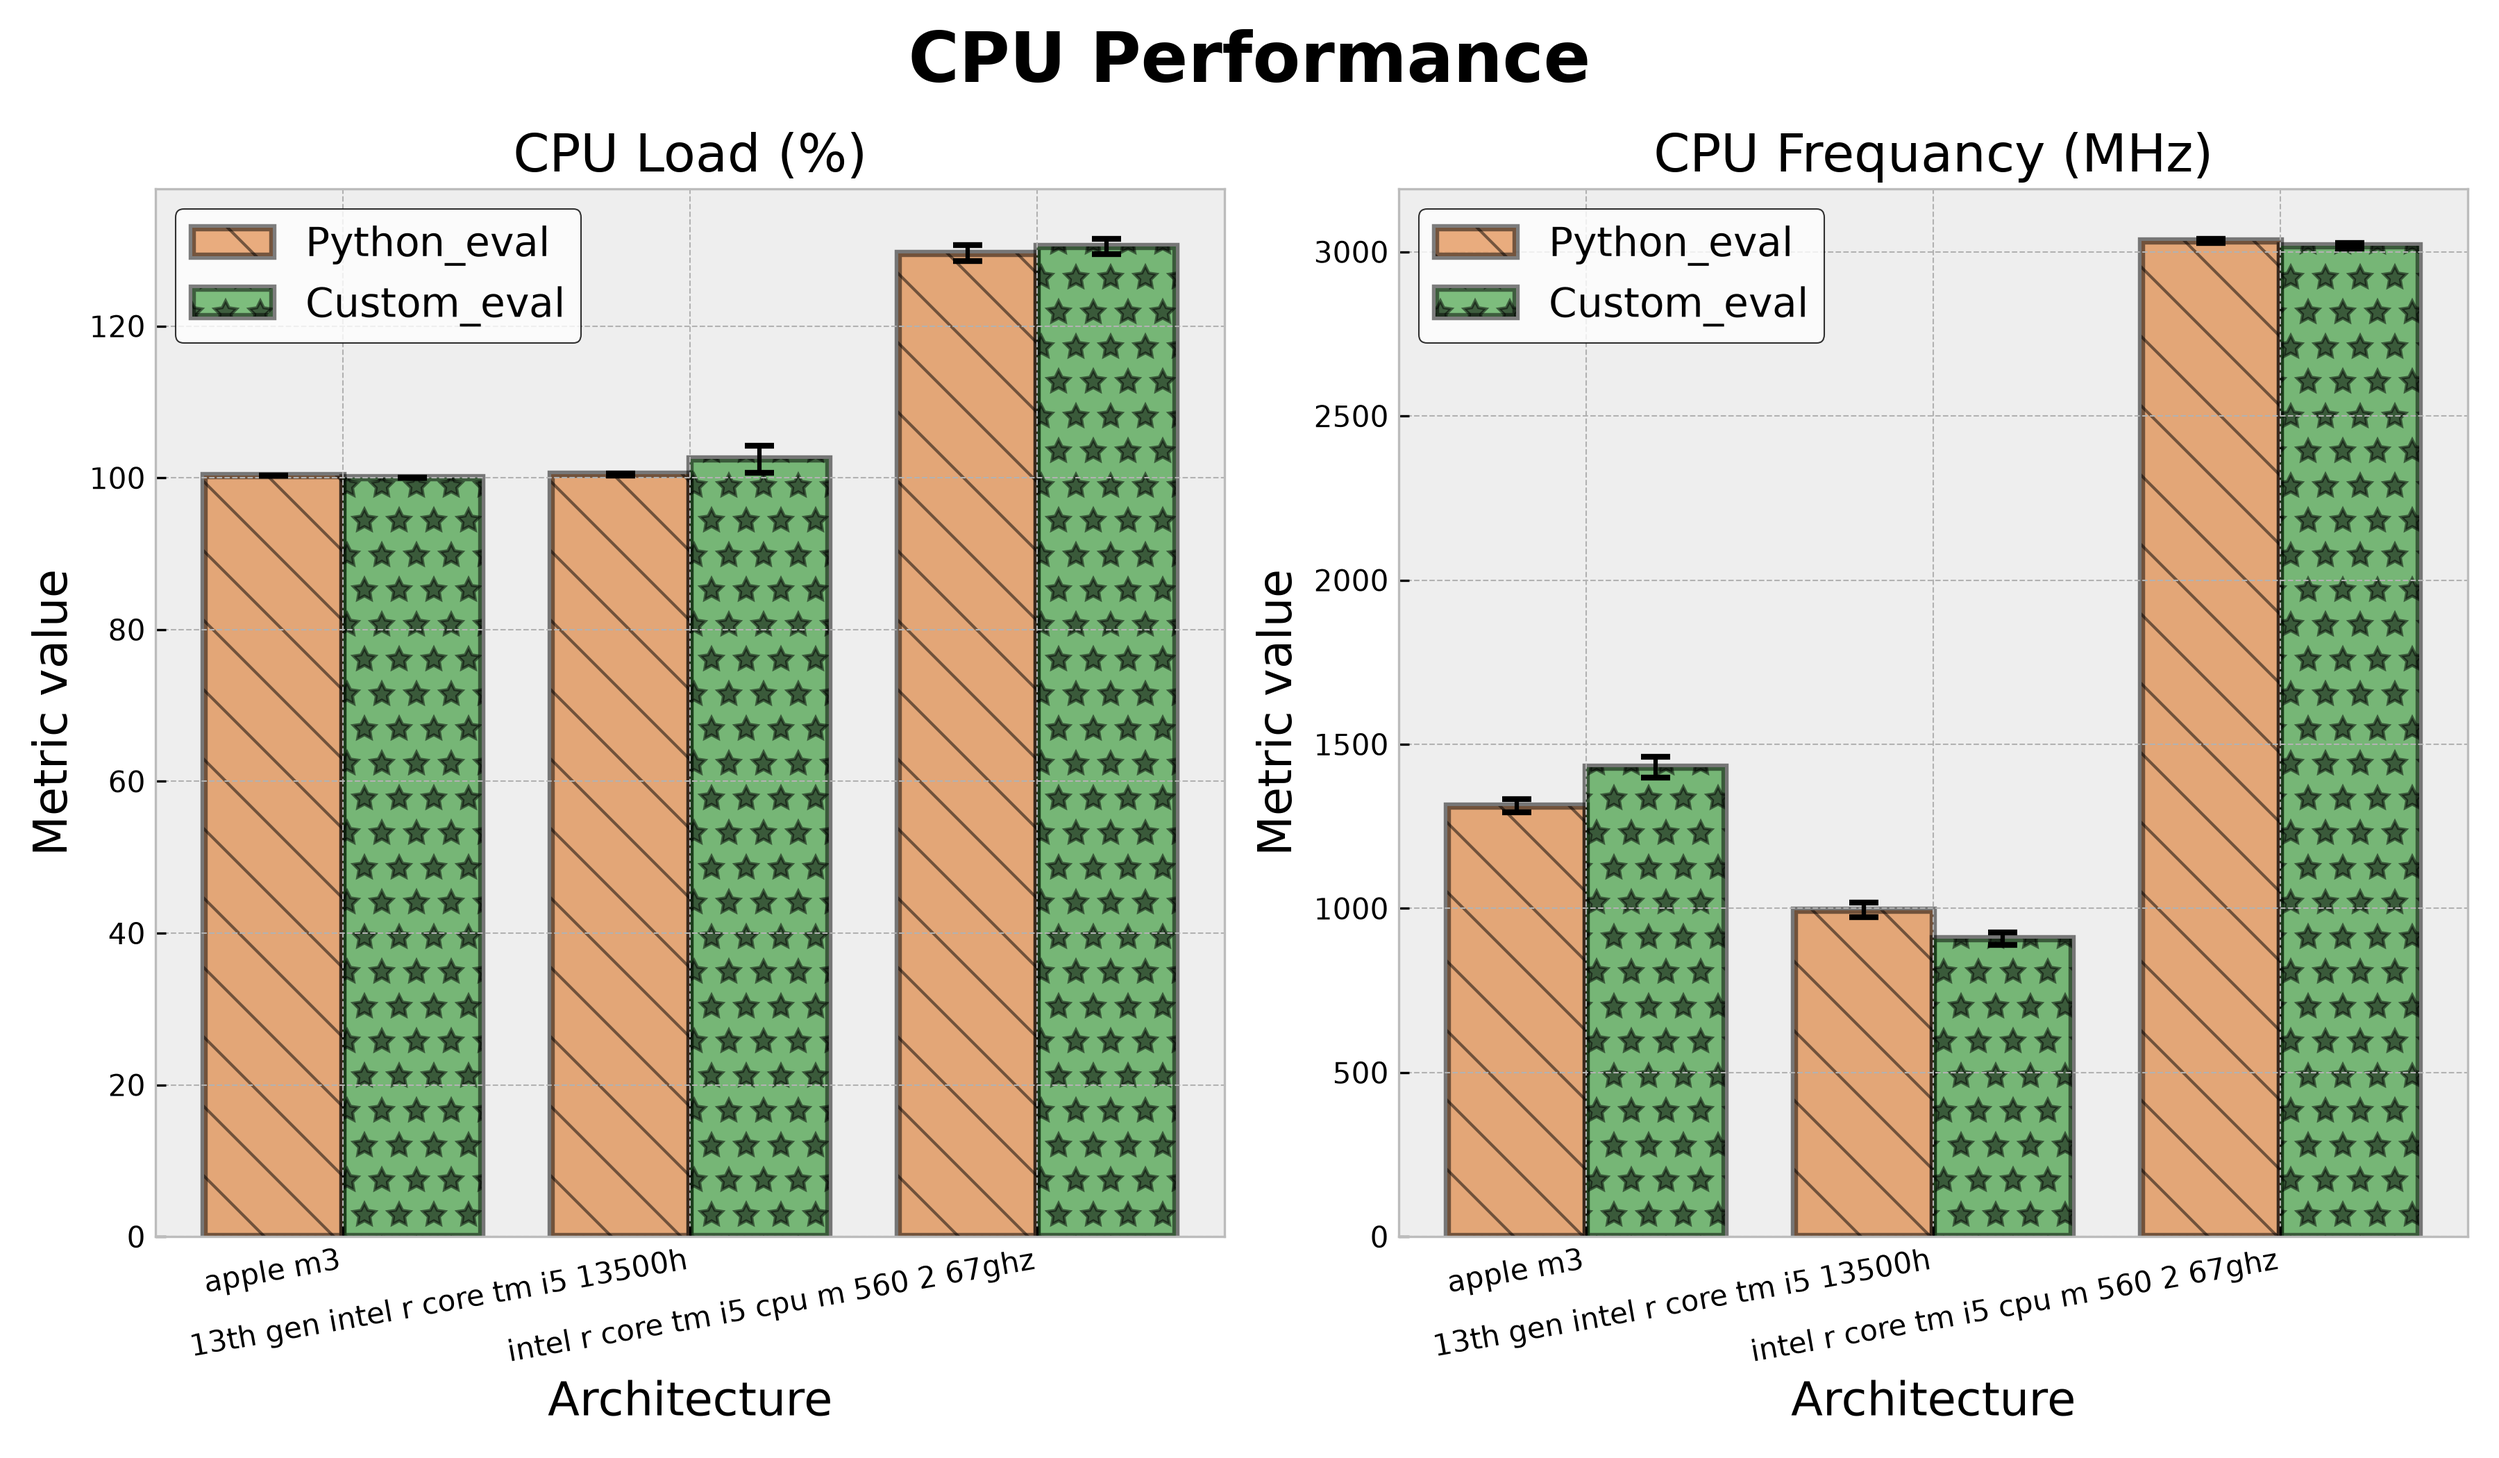
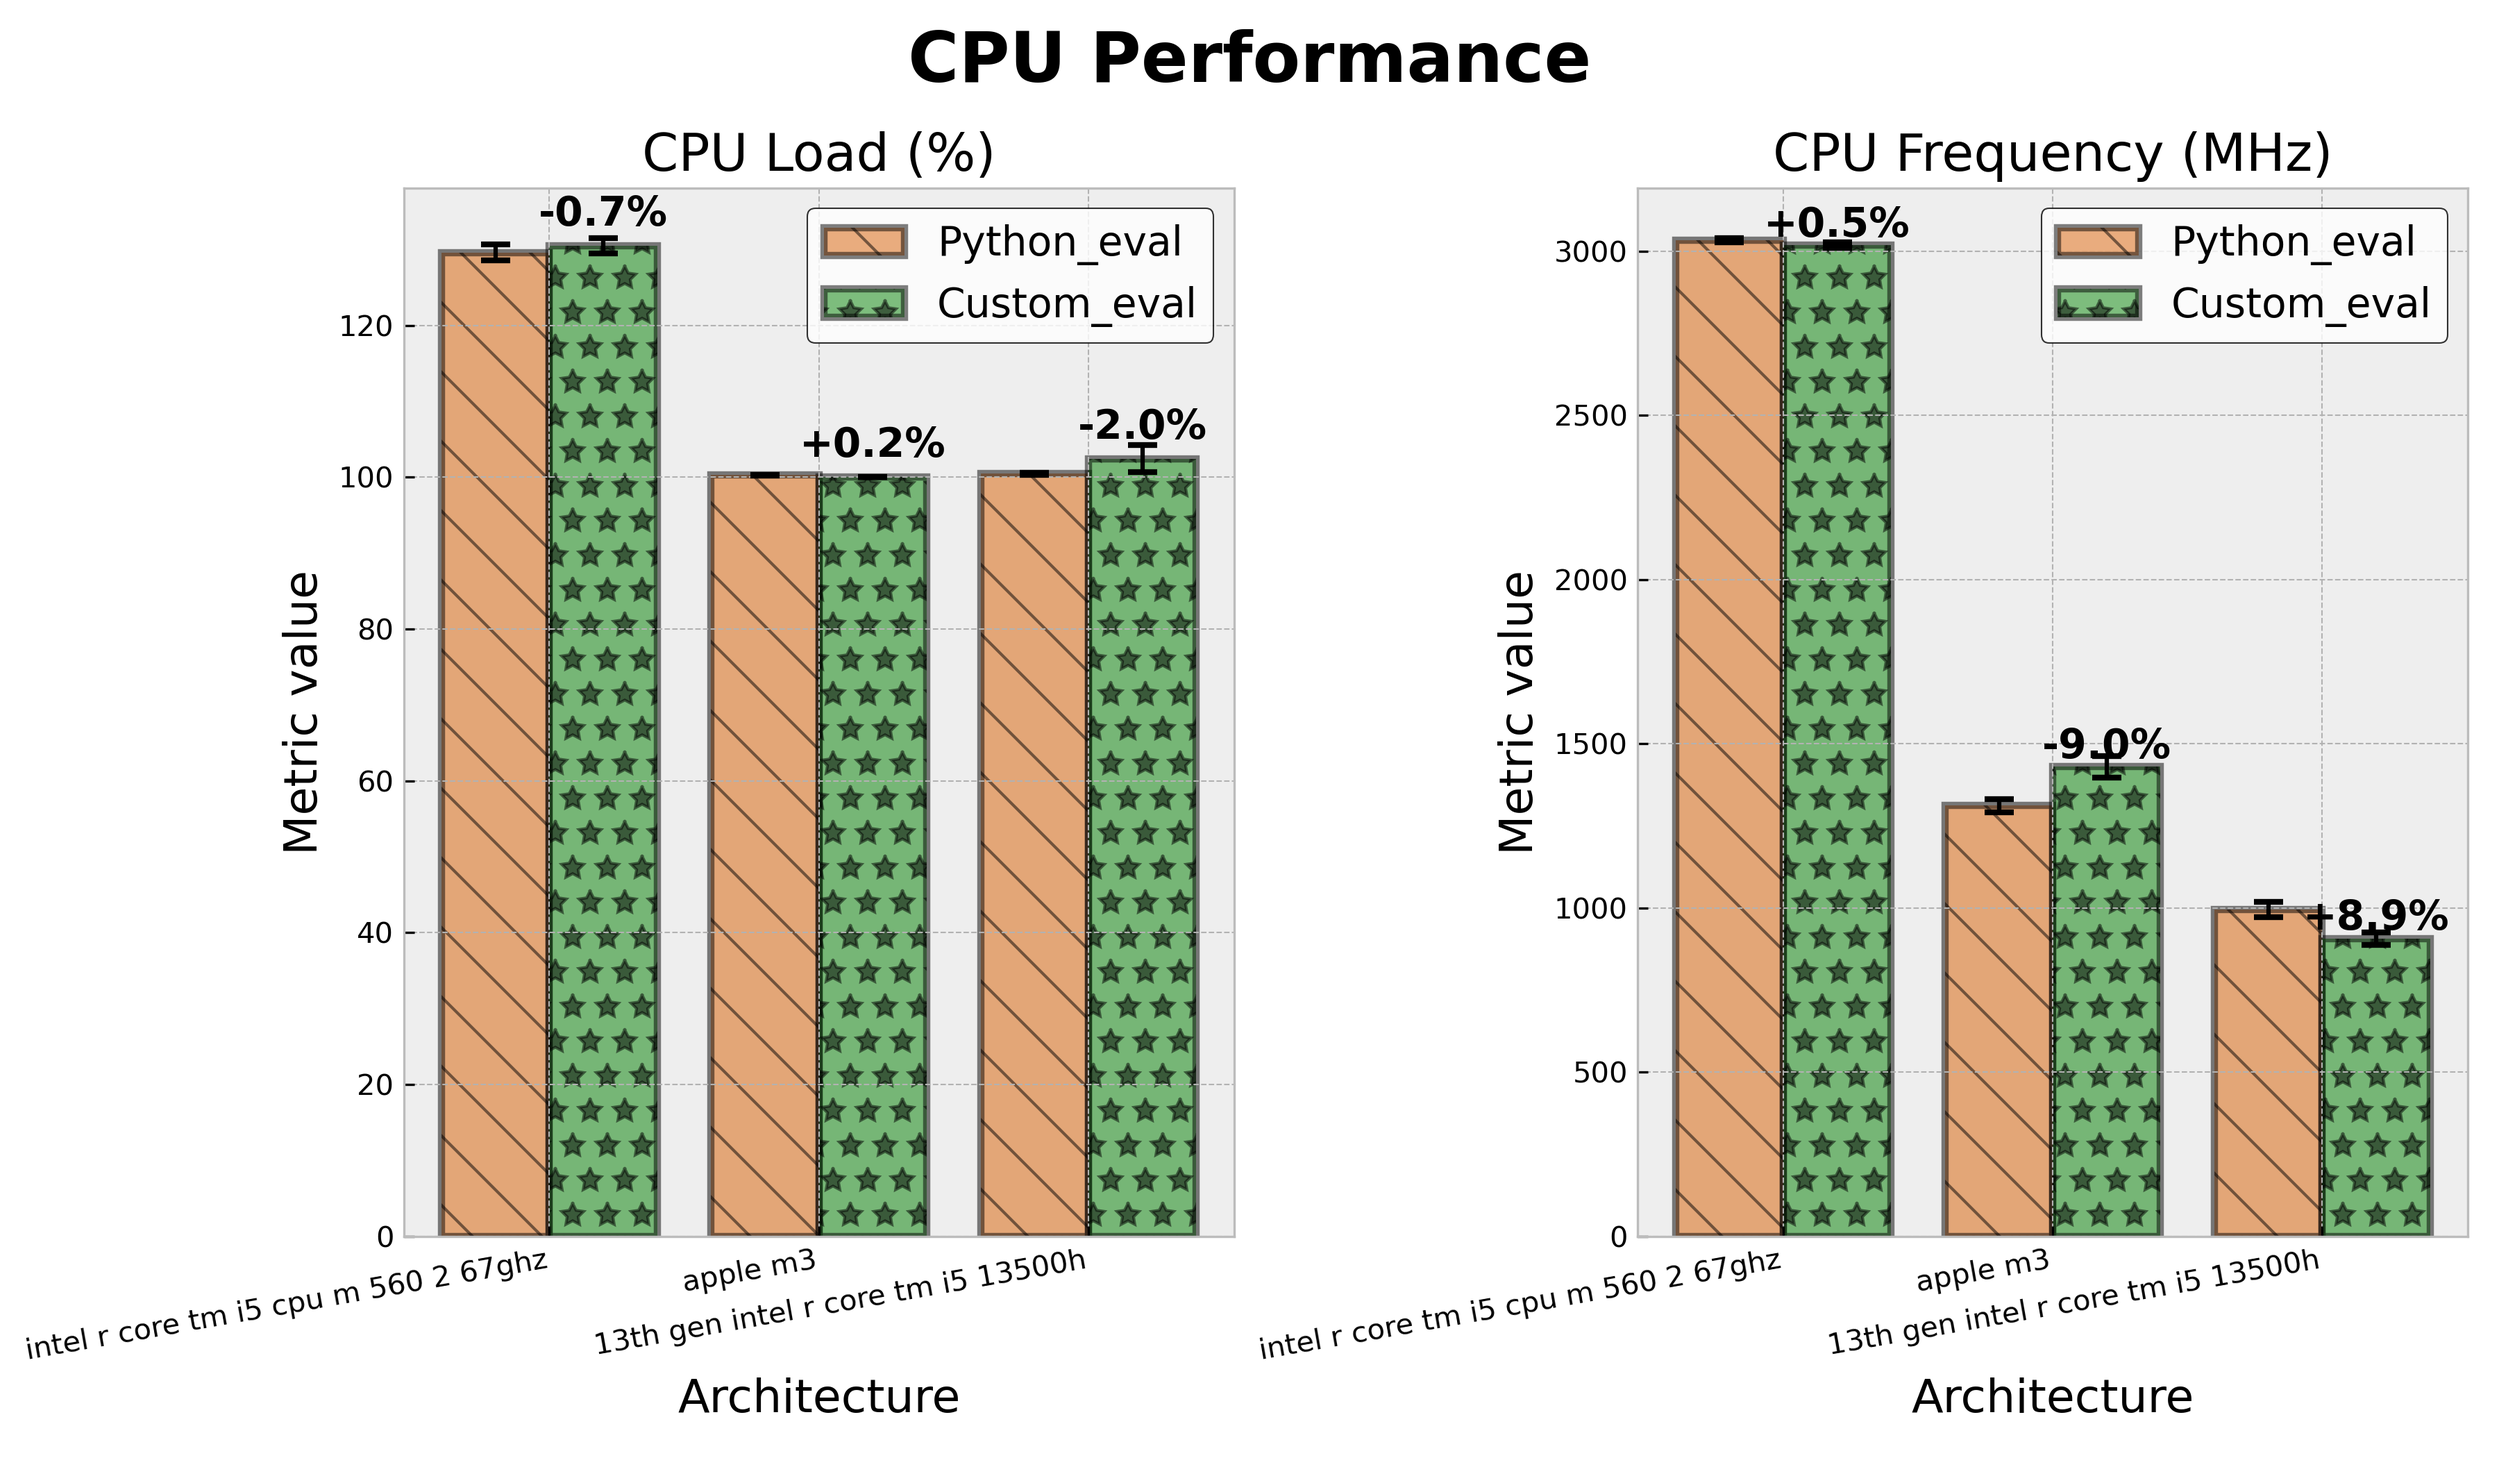
Results general analysis

diff --git a/modeling/general_analysis.py b/modeling/general_analysis.py
@@ -101,6 +101,7 @@ class PlotHistogram:
         x: NDArray = np.arange(len(self._list_dir))
         STEP: Final[int] = 2
         width: float = 0.40
+        height: float = 1.5
         counter: int = 0
 
         # Error style
@@ -116,10 +117,11 @@ class PlotHistogram:
             "CPU Thermal & Energy"
         )
         titles_hist: tuple[tuple[str, str], ...] = (
-            ("CPU Load (%)", "CPU Frequancy (MHz)"),
+            ("CPU Load (%)", "CPU Frequency (MHz)"),
             ("RSS (MB)", "Heap python (MB)"),
             ("Temperature (°C)", "Energy (J)")
         )
+        y_label_log: str = "Logarithmic value"
         y_label: str = "Metric value"
         x_label: str = "Architecture"
         label_1: str = "Python_eval"
@@ -128,7 +130,7 @@ class PlotHistogram:
         label_res_2: str | None
 
 
-        for sup_title_i, title_i in zip(sup_titles, titles_hist):
+        for i, (sup_title_i, title_i) in enumerate(zip(sup_titles, titles_hist)):
             fig, axes = plt.subplots(1, 2, figsize=(12, 7))
             plt.suptitle(sup_title_i, fontsize=24, fontweight='bold')
 
@@ -140,13 +142,17 @@ class PlotHistogram:
             axes[0].set_ylabel(y_label, fontsize=16)
             axes[1].set_ylabel(y_label, fontsize=16)
 
+            if i == 2:
+                axes[1].set_yscale('log')
+                axes[1].set_ylabel(y_label_log, fontsize=16)
+
             # Current Matrix
             matrix_ev_1_i = self.tuple_python_eval[counter]
             matrix_ev_2_i = self.tuple_python_eval[counter+1]
             matrix_c_ev_1_i = self.tuple_custom_eval[counter]
             matrix_c_ev_2_i = self.tuple_custom_eval[counter+1]
 
-            for i, (arch_name, arr_1_ev, arr_2_ev, arr_1_c_ev, arr_2_c_ev) in enumerate(zip(
+            for j, (arch_name, arr_1_ev, arr_2_ev, arr_1_c_ev, arr_2_c_ev) in enumerate(zip(
                     self._list_dir,
                     matrix_ev_1_i,
                     matrix_ev_2_i,
@@ -167,11 +173,11 @@ class PlotHistogram:
                 err_low_c_ev_2: float = np.minimum(mean_2_c_ev, sme_2_c_ev)
 
                 # Position BAR: Group BAR
-                position_1: float = x[i] - width / 2
-                position_2: float = x[i] + width / 2
+                position_1: float = x[j] - width / 2
+                position_2: float = x[j] + width / 2
 
                 # LABELS: Legend figure
-                if i == 0:
+                if j == 0:
                     label_res_1 = label_1
                     label_res_2 = label_2
                 else:
@@ -195,6 +201,18 @@ class PlotHistogram:
                             color="green", hatch="*", edgecolor="black",
                             linewidth=2.5, alpha=0.5, label=label_res_2,
                             yerr=[[err_low_c_ev_2], [sme_2_c_ev]], error_kw=err_kw)
+
+                # Annotation
+                diff_1_pct = (1.0 - mean_1_c_ev / mean_1_ev) * 100
+                diff_2_pct = (1.0 - mean_2_c_ev / mean_2_ev) * 100
+
+                axes[0].annotate(f"{diff_1_pct:+.1f}%",
+                                 xy=(position_2, mean_1_c_ev + height),
+                                 ha='center', va='bottom', fontsize=14, fontweight='bold')
+
+                axes[1].annotate(f"{diff_2_pct:+.1f}%",
+                                 xy=(position_2, mean_2_c_ev + height),
+                                 ha='center', va='bottom', fontsize=14, fontweight='bold')
 
             # Architecture
             arch_names: list[str] = [
